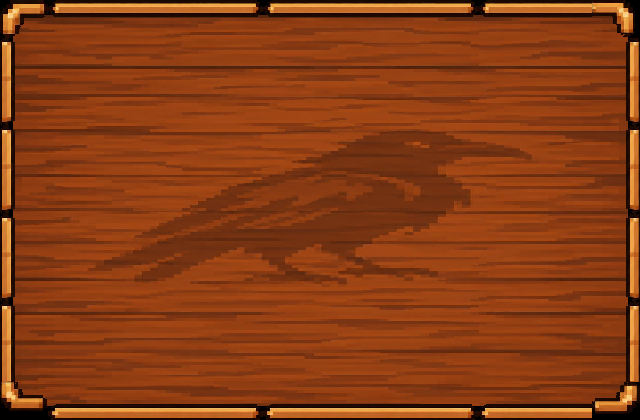
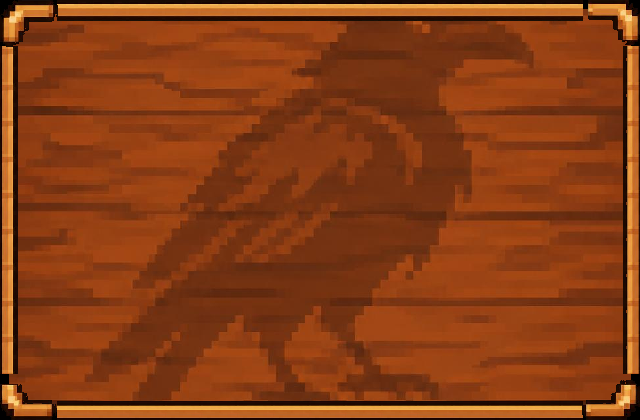
fix: seamless frame edge tiles + wood center-crop (no squash)
- Mid-span edge tiles without decorative end caps
- Corners normalized; edges tile under corners with overlap
- Wood ContentScale.Crop preserves crow proportions
- Regenerated code-assembled dialog preview
- v1.0.12 / versionCode 13

diff --git a/app/src/main/java/com/example/ui/components/PixelFrameBox.kt b/app/src/main/java/com/example/ui/components/PixelFrameBox.kt
@@ -6,25 +6,32 @@ import androidx.compose.foundation.layout.BoxScope
 import androidx.compose.foundation.layout.fillMaxSize
 import androidx.compose.foundation.layout.padding
 import androidx.compose.runtime.Composable
+import androidx.compose.ui.Alignment
 import androidx.compose.ui.Modifier
 import androidx.compose.ui.draw.drawWithContent
+import androidx.compose.ui.graphics.FilterQuality
 import androidx.compose.ui.graphics.ImageBitmap
 import androidx.compose.ui.graphics.drawscope.DrawScope
 import androidx.compose.ui.layout.ContentScale
 import androidx.compose.ui.res.imageResource
 import androidx.compose.ui.res.painterResource
 import androidx.compose.ui.unit.Dp
+import androidx.compose.ui.unit.IntOffset
+import androidx.compose.ui.unit.IntSize
 import androidx.compose.ui.unit.dp
 import com.example.R
+import kotlin.math.max
+import kotlin.math.min
+import kotlin.math.roundToInt
 
 /**
- * Caixa pixel com fundo de madeira e moldura 9-slice (cantos + bordas repetidas).
- * As peças da moldura são desenhadas interligadas — sem gaps entre segmentos.
+ * Caixa pixel: madeira com aspecto preservado (crop central) + moldura 9-slice.
+ * Bordas = azulejos sem pontas; cantos cobrem as emendas.
  */
 @Composable
 fun PixelFrameBox(
     modifier: Modifier = Modifier,
-    contentPadding: Dp = 16.dp,
+    contentPadding: Dp = 18.dp,
     content: @Composable BoxScope.() -> Unit
 ) {
     val tl = ImageBitmap.imageResource(id = R.drawable.frame_tl)
@@ -37,22 +44,18 @@ fun PixelFrameBox(
     val right = ImageBitmap.imageResource(id = R.drawable.frame_right)
 
     Box(
-        modifier = modifier
-            .drawWithContent {
-                // Fundo madeira (ligeiramente inset para a moldura cobrir as bordas)
-                // O Image abaixo desenha o fill; aqui só a moldura por cima do content
-                drawContent()
-                drawPixelFrame(
-                    tl = tl, tr = tr, bl = bl, br = br,
-                    top = top, bottom = bottom, left = left, right = right
-                )
-            }
+        modifier = modifier.drawWithContent {
+            drawContent()
+            drawSeamlessFrame(tl, tr, bl, br, top, bottom, left, right)
+        }
     ) {
         Image(
             painter = painterResource(id = R.drawable.box_wood_bg),
             contentDescription = null,
             contentScale = ContentScale.Crop,
-            modifier = Modifier.fillMaxSize()
+            alignment = Alignment.Center,
+            modifier = Modifier.fillMaxSize(),
+            filterQuality = FilterQuality.None
         )
         Box(
             modifier = Modifier
@@ -63,7 +66,7 @@ fun PixelFrameBox(
     }
 }
 
-private fun DrawScope.drawPixelFrame(
+private fun DrawScope.drawSeamlessFrame(
     tl: ImageBitmap,
     tr: ImageBitmap,
     bl: ImageBitmap,
@@ -75,100 +78,78 @@ private fun DrawScope.drawPixelFrame(
 ) {
     val w = size.width
     val h = size.height
+    val minSide = min(w, h)
+    val baseCorner = max(tl.width, tl.height).toFloat()
+    val scale = min((minSide * 0.14f) / baseCorner, 1.6f).coerceAtLeast(0.45f)
 
-    // Escala cantos para ~ densidades: usar tamanho nativo em px convertendo
-    // ImageBitmap já está em px; desenhamos em px de canvas
-    val cw = maxOf(tl.width, tr.width, bl.width, br.width).toFloat()
-    val ch = maxOf(tl.height, tr.height, bl.height, br.height).toFloat()
-    val scale = minOf(
-        (w * 0.18f) / cw,
-        (h * 0.22f) / ch,
-        1.2f
-    ).coerceAtLeast(0.5f)
+    val cw = (tl.width * scale).roundToInt().coerceAtLeast(1)
+    val ch = (tl.height * scale).roundToInt().coerceAtLeast(1)
+    val topH = max(1, (top.height * scale).roundToInt())
+    val botH = max(1, (bottom.height * scale).roundToInt())
+    val leftW = max(1, (left.width * scale).roundToInt())
+    val rightW = max(1, (right.width * scale).roundToInt())
+    val overlap = max(1, (2f * scale).roundToInt())
 
-    val cornerW = cw * scale
-    val cornerH = ch * scale
-    val edgeTopH = top.height * scale
-    val edgeBotH = bottom.height * scale
-    val edgeLeftW = left.width * scale
-    val edgeRightW = right.width * scale
+    tileH(top, cw - overlap, 0, w.roundToInt() - cw + overlap, topH)
+    tileH(bottom, cw - overlap, h.roundToInt() - botH, w.roundToInt() - cw + overlap, botH)
+    tileV(left, 0, ch - overlap, h.roundToInt() - ch + overlap, leftW)
+    tileV(right, w.roundToInt() - rightW, ch - overlap, h.roundToInt() - ch + overlap, rightW)
 
-    // Bordas horizontais (entre cantos), com overlap de 1px para evitar frestas
-    tileHorizontal(top, cornerW - 1f, 0f, w - cornerW + 1f, edgeTopH)
-    tileHorizontal(bottom, cornerW - 1f, h - edgeBotH, w - cornerW + 1f, edgeBotH)
-
-    // Bordas verticais
-    tileVertical(left, 0f, cornerH - 1f, edgeLeftW, h - cornerH + 1f)
-    tileVertical(right, w - edgeRightW, cornerH - 1f, edgeRightW, h - cornerH + 1f)
-
-    // Cantos por cima (interligam visualmente)
-    drawImageScaled(tl, 0f, 0f, cornerW, cornerH)
-    drawImageScaled(tr, w - cornerW, 0f, cornerW, cornerH)
-    drawImageScaled(bl, 0f, h - cornerH, cornerW, cornerH)
-    drawImageScaled(br, w - cornerW, h - cornerH, cornerW, cornerH)
+    blit(tl, 0, 0, cw, ch)
+    blit(tr, w.roundToInt() - cw, 0, cw, ch)
+    blit(bl, 0, h.roundToInt() - ch, cw, ch)
+    blit(br, w.roundToInt() - cw, h.roundToInt() - ch, cw, ch)
 }
 
-private fun DrawScope.drawImageScaled(
-    image: ImageBitmap,
-    x: Float,
-    y: Float,
-    dstW: Float,
-    dstH: Float
-) {
+private fun DrawScope.blit(image: ImageBitmap, x: Int, y: Int, dw: Int, dh: Int) {
     drawImage(
         image = image,
-        dstOffset = androidx.compose.ui.unit.IntOffset(x.toInt(), y.toInt()),
-        dstSize = androidx.compose.ui.unit.IntSize(dstW.toInt().coerceAtLeast(1), dstH.toInt().coerceAtLeast(1))
+        srcOffset = IntOffset.Zero,
+        srcSize = IntSize(image.width, image.height),
+        dstOffset = IntOffset(x, y),
+        dstSize = IntSize(dw.coerceAtLeast(1), dh.coerceAtLeast(1)),
+        filterQuality = FilterQuality.None
     )
 }
 
-private fun DrawScope.tileHorizontal(
-    image: ImageBitmap,
-    x0: Float,
-    y: Float,
-    x1: Float,
-    dstH: Float
-) {
+private fun DrawScope.tileH(image: ImageBitmap, x0: Int, y: Int, x1: Int, dstH: Int) {
     if (x1 <= x0) return
-    val tileW = (image.width * (dstH / image.height)).coerceAtLeast(1f)
-    var x = x0
-    while (x < x1) {
-        val remaining = x1 - x
-        val w = minOf(tileW, remaining)
-        // src width proportion
-        val srcW = ((w / tileW) * image.width).toInt().coerceIn(1, image.width)
+    val tileW = max(1f, image.width * (dstH.toFloat() / image.height))
+    var x = x0.toFloat()
+    val end = x1.toFloat()
+    while (x < end) {
+        val remaining = end - x
+        val ww = min(tileW, remaining)
+        val srcW = max(1, ((ww / tileW) * image.width).roundToInt().coerceAtMost(image.width))
         drawImage(
             image = image,
-            srcOffset = androidx.compose.ui.unit.IntOffset(0, 0),
-            srcSize = androidx.compose.ui.unit.IntSize(srcW, image.height),
-            dstOffset = androidx.compose.ui.unit.IntOffset(x.toInt(), y.toInt()),
-            dstSize = androidx.compose.ui.unit.IntSize(w.toInt().coerceAtLeast(1), dstH.toInt().coerceAtLeast(1))
+            srcOffset = IntOffset.Zero,
+            srcSize = IntSize(srcW, image.height),
+            dstOffset = IntOffset(x.roundToInt(), y),
+            dstSize = IntSize(max(1, ww.roundToInt()), max(1, dstH)),
+            filterQuality = FilterQuality.None
         )
-        x += w
+        x += ww
     }
 }
 
-private fun DrawScope.tileVertical(
-    image: ImageBitmap,
-    x: Float,
-    y0: Float,
-    dstW: Float,
-    y1: Float
-) {
+private fun DrawScope.tileV(image: ImageBitmap, x: Int, y0: Int, y1: Int, dstW: Int) {
     if (y1 <= y0) return
-    val tileH = (image.height * (dstW / image.width)).coerceAtLeast(1f)
-    var y = y0
-    while (y < y1) {
-        val remaining = y1 - y
-        val h = minOf(tileH, remaining)
-        val srcH = ((h / tileH) * image.height).toInt().coerceIn(1, image.height)
+    val tileH = max(1f, image.height * (dstW.toFloat() / image.width))
+    var y = y0.toFloat()
+    val end = y1.toFloat()
+    while (y < end) {
+        val remaining = end - y
+        val hh = min(tileH, remaining)
+        val srcH = max(1, ((hh / tileH) * image.height).roundToInt().coerceAtMost(image.height))
         drawImage(
             image = image,
-            srcOffset = androidx.compose.ui.unit.IntOffset(0, 0),
-            srcSize = androidx.compose.ui.unit.IntSize(image.width, srcH),
-            dstOffset = androidx.compose.ui.unit.IntOffset(x.toInt(), y.toInt()),
-            dstSize = androidx.compose.ui.unit.IntSize(dstW.toInt().coerceAtLeast(1), h.toInt().coerceAtLeast(1))
+            srcOffset = IntOffset.Zero,
+            srcSize = IntSize(image.width, srcH),
+            dstOffset = IntOffset(x, y.roundToInt()),
+            dstSize = IntSize(max(1, dstW), max(1, hh.roundToInt())),
+            filterQuality = FilterQuality.None
         )
-        y += h
+        y += hh
     }
 }
